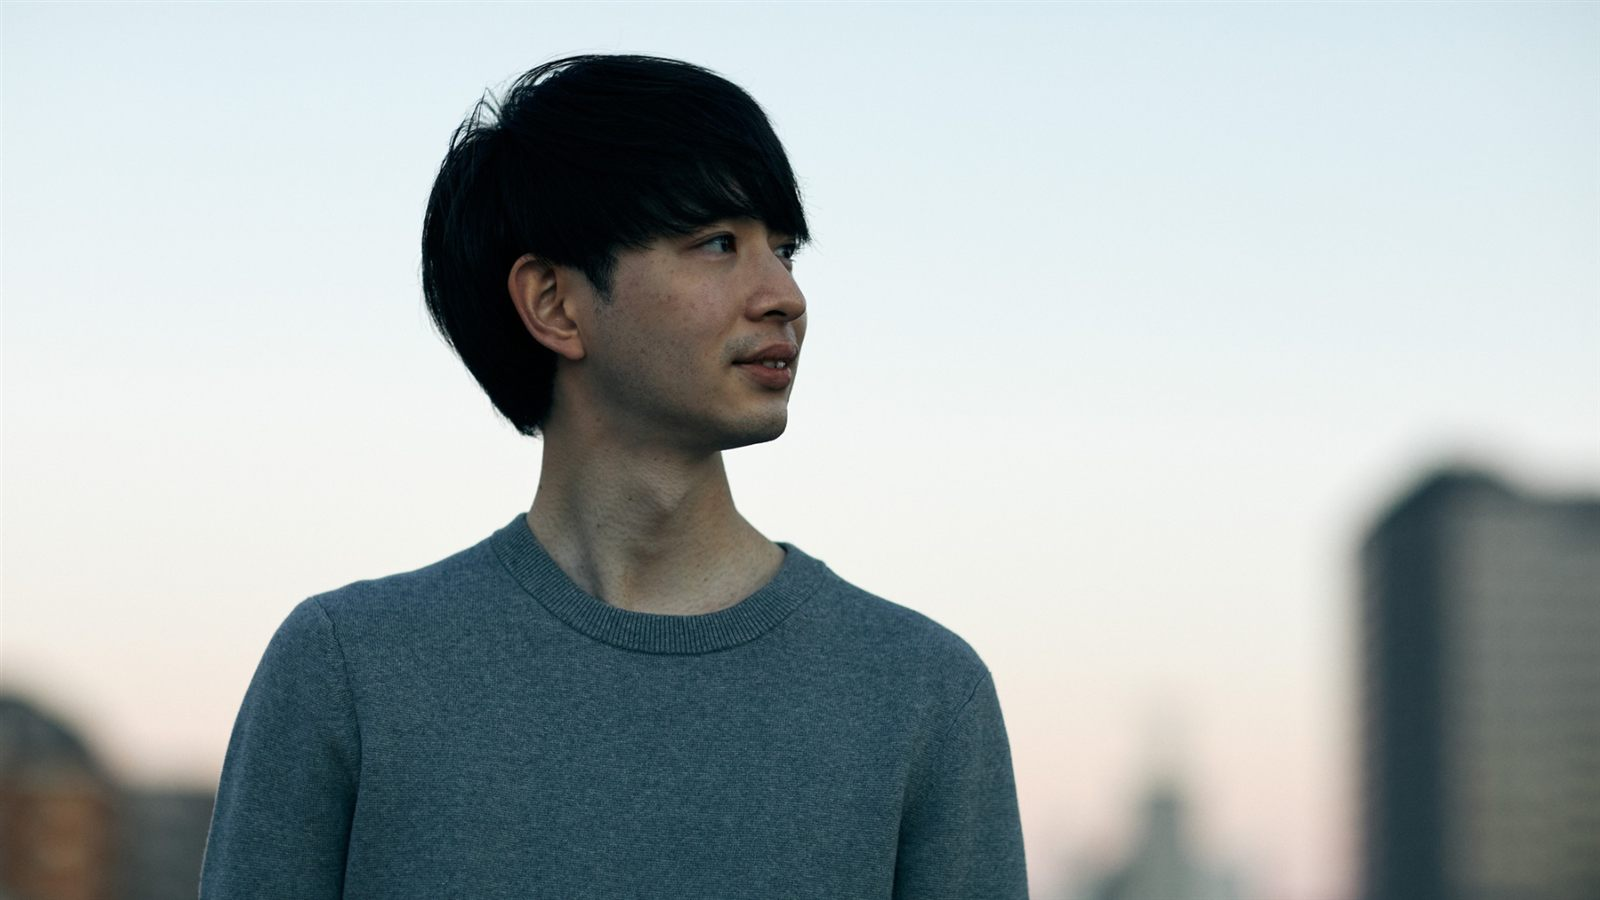
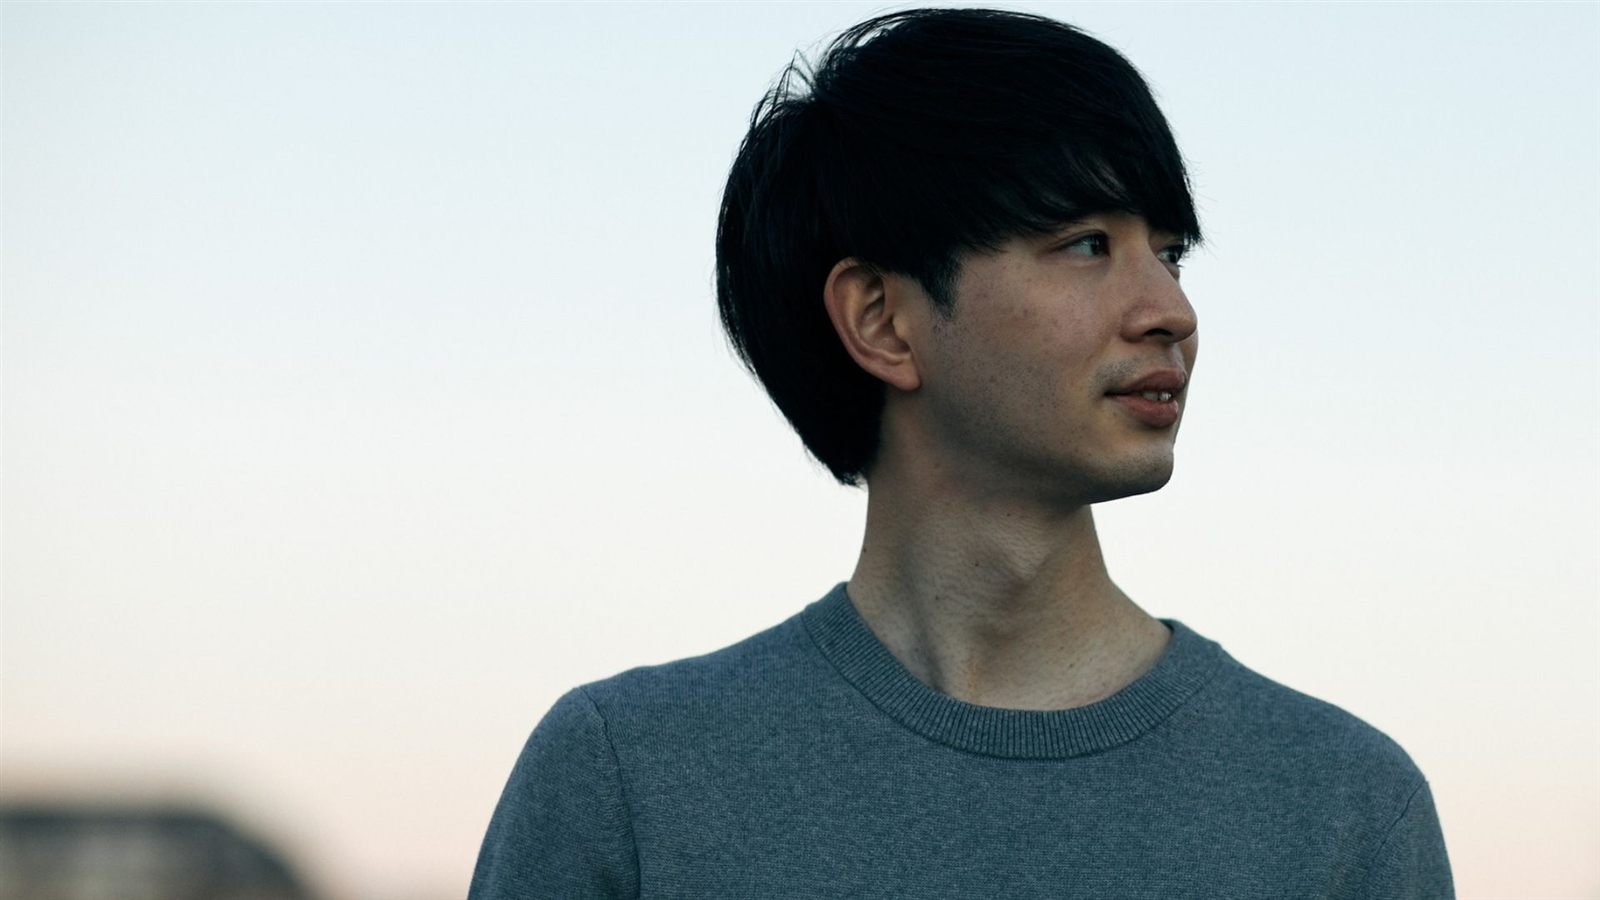
Top page: replace the third hero photo and drop the PC flip

diff --git a/index.html b/index.html
@@ -180,8 +180,6 @@ ul, ol { list-style: none; }
 .mv-slides > img { opacity: 0; transition: opacity 1.6s ease; }
 .mv-slides > img.is-active { opacity: 1; }
 @media (prefers-reduced-motion: reduce) { .mv-slides > img { transition: none; } }
-/* PCではキャッチが左に重なるので、人物が左にいる写真は左右反転して右側に寄せる */
-@media (min-width: 721px) { .mv-slides > img.mv-flip { transform: scaleX(-1); } }
 .mv::after { /* 写真の左側だけ、白に近いごく淡いピンクを重ねて文字を読みやすく（写真の雰囲気は残す） */
   content: ''; position: absolute; inset: 0; pointer-events: none;
   background: linear-gradient(90deg, rgba(250, 251, 252, .92) 0%, rgba(246, 248, 250, .72) 34%, rgba(246, 248, 250, 0) 64%);
@@ -595,7 +593,7 @@ ul, ol { list-style: none; }
     <div class="ph mv-slides">
       <img class="is-active" src="newimages/ibj-network.png" alt="">
       <img src="newimages/hero-2.jpg" alt="" loading="lazy">
-      <img class="mv-flip" src="newimages/hero-3.jpg" alt="" loading="lazy">
+      <img src="newimages/hero-3.jpg" alt="" loading="lazy">
     </div>
   </div>
   <a class="mv-logo" href="#top"><img src="newimages/logo-harukaze-header.jpg" alt="結婚相談所ハルカゼ harukaze"></a>
